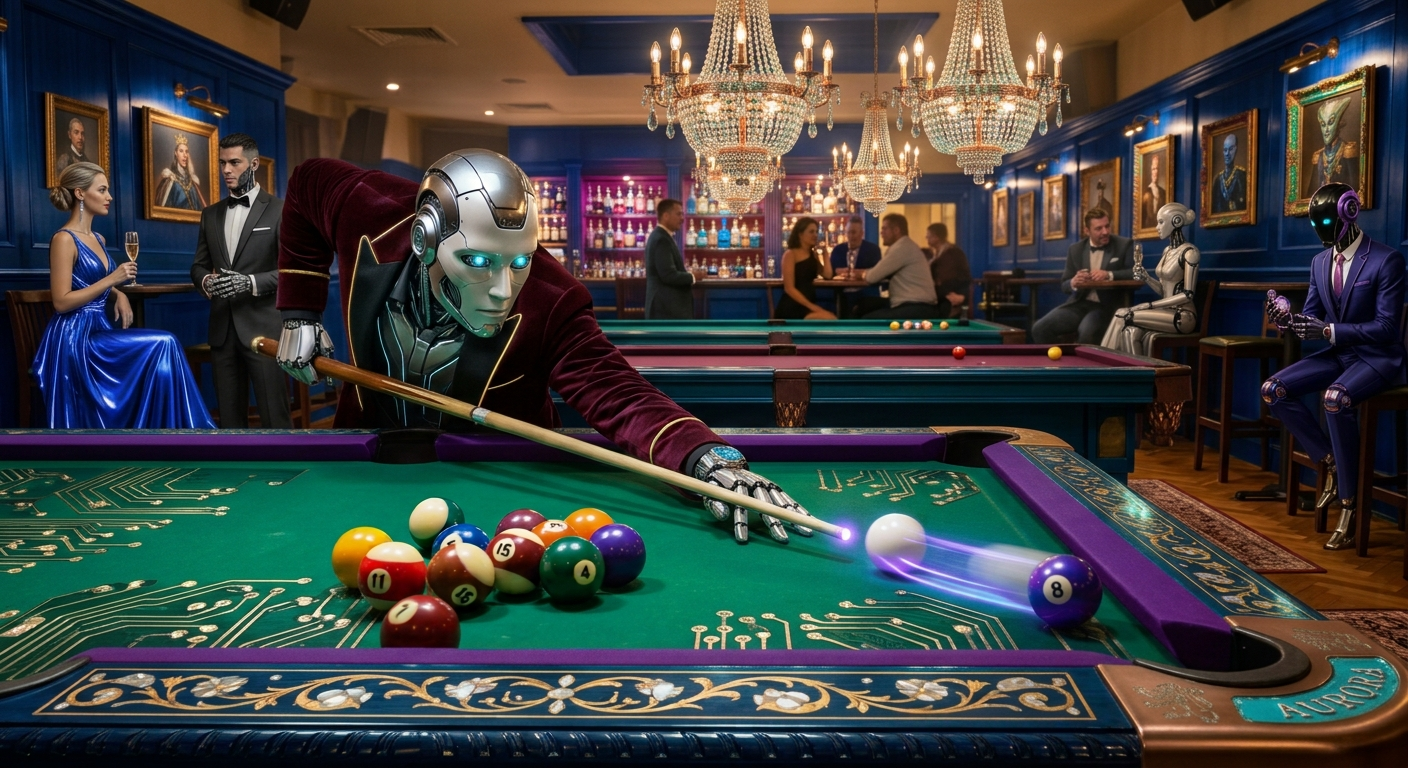
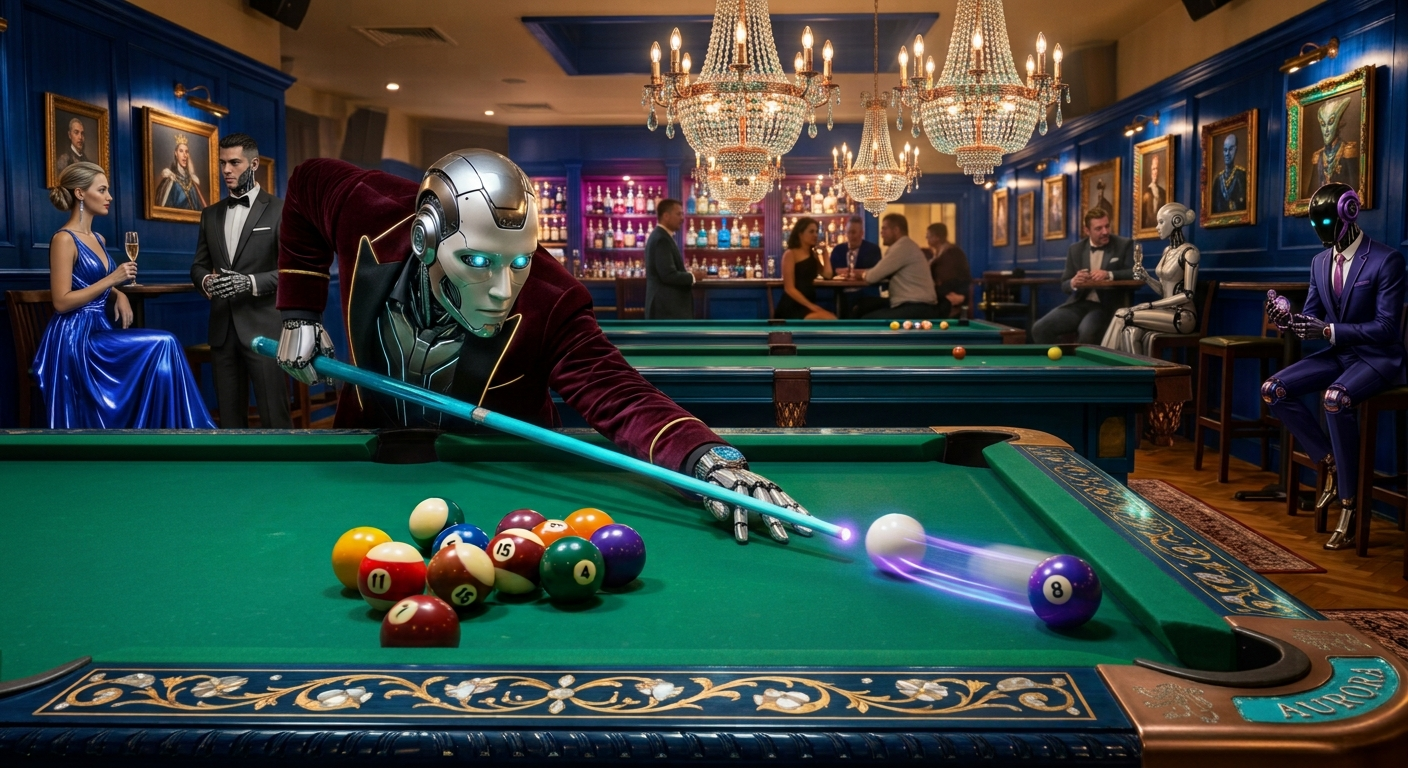
add bg options for the cities and the levels

Changed region(s): [[0.0, 0.4375, 0.875, 0.9062], [0.4375, 0.4375, 0.8125, 0.5], [0.5, 0.1875, 0.5312, 0.25]]

diff --git a/src/home.ts b/src/home.ts
@@ -177,6 +177,7 @@ export async function chooseGame() {
         return;
       }
       view = undefined;
+      delete picker.dataset.backgroundScreen;
       modes.hidden = false;
       setup.hidden = true;
       previousButton?.focus();
@@ -190,6 +191,7 @@ export async function chooseGame() {
     function showStages(city: typeof cities[number]) {
       selectedCity = city;
       view = 'stages';
+      picker.dataset.backgroundScreen = 'levels';
       shop.hidden = false;
       back.textContent = t('← Cities');
       title.textContent = t(city.name) + ' · ' + gameName();
@@ -215,6 +217,7 @@ export async function chooseGame() {
 
     function showShop(focusIndex = -1) {
       view = 'shop';
+      picker.dataset.backgroundScreen = 'other';
       shop.hidden = true;
       back.textContent = selectedCity ? t('← Games') : t('← Cities');
       title.textContent = t('Equipment shop');
@@ -242,6 +245,7 @@ export async function chooseGame() {
 
     function showTraining() {
       view = 'training';
+      picker.dataset.backgroundScreen = 'other';
       back.textContent = t('← Game modes');
       title.textContent = t('Training') + ' · ' + gameName();
       list.dataset.layout = 'training';
@@ -250,6 +254,7 @@ export async function chooseGame() {
         artwork: tableArt(5), action: t('Choose difficulty'),
         play: () => {
           view = 'difficulty';
+          picker.dataset.backgroundScreen = 'levels';
           back.textContent = t('← Training');
           title.textContent = t('Choose your opponent');
           list.dataset.layout = 'difficulty';
@@ -271,6 +276,7 @@ export async function chooseGame() {
     async function showSetup(mode: Setup) {
       request?.abort();
       view = mode;
+      picker.dataset.backgroundScreen = mode === 'computer' || mode === 'online' ? 'cities' : 'other';
       selectedCity = undefined;
       shop.hidden = mode !== 'computer';
       modes.hidden = true;

diff --git a/index.html b/index.html
@@ -76,18 +76,23 @@
             <span class="background-name">Classic</span>
           </button>
         </div>
+        <fieldset>
+          <legend>Show background on</legend>
+          <label><input type="checkbox" data-background-screen="cities" checked> City selection</label>
+          <label><input type="checkbox" data-background-screen="levels" checked> Level selection</label>
+        </fieldset>
       </div>
       <div class="ui-dialog-actions"><button class="ui-button" value="close">Done</button></div>
     </form>
   </dialog>
   <section id="cityPicker" class="city-picker" aria-labelledby="cityPickerTitle">
+    <div class="background-art home-backdrop" data-background="sapphire" aria-hidden="true"></div>
     <div class="city-picker-content">
       <div class="home-header">
         <img class="city-picker-brand" src="/billiard-logo.svg" width="300" height="72" alt="Cue Master · Pool and Snooker">
         <button class="avatar-choice home-avatar" id="openAppSettings" type="button" aria-label="Settings" title="Settings" aria-haspopup="dialog" aria-controls="appSettings"></button>
       </div>
       <div id="homeModes">
-        <div class="background-art home-backdrop" data-background="sapphire" aria-hidden="true"></div>
         <h1 id="cityPickerTitle">Choose your game</h1>
         <div class="home-games" role="group" aria-label="Game type">
           <button class="home-back" type="button" data-game="pool" aria-pressed="true">Billiard</button>

diff --git a/src/app-settings.ts b/src/app-settings.ts
@@ -97,6 +97,7 @@ function installHomeBackground(settings: HTMLDialogElement) {
   const open = document.querySelector<HTMLButtonElement>('#openHomeBackground')!;
   const currentName = document.querySelector<HTMLElement>('#currentHomeBackground')!;
   const backdrop = document.querySelector<HTMLElement>('.home-backdrop')!;
+  const screenOptions = dialog.querySelectorAll<HTMLInputElement>('[data-background-screen]');
   const choices = [...dialog.querySelectorAll<HTMLButtonElement>('[data-background-choice]')];
   let selected = choices[0];
 
@@ -121,6 +122,21 @@ function installHomeBackground(settings: HTMLDialogElement) {
     choice.onclick = () => {
       apply(choice);
       try { localStorage.setItem(backgroundKey, backdrop.dataset.background!); } catch {}
+    };
+  }
+  for (const option of screenOptions) {
+    const screen = option.dataset.backgroundScreen!;
+    const key = backgroundKey + '-' + screen;
+    const attribute = 'data-hide-background-' + screen;
+    const updateScreen = () => {
+      if (option.checked) backdrop.removeAttribute(attribute);
+      else backdrop.setAttribute(attribute, '');
+    };
+    try { option.checked = localStorage.getItem(key) !== 'off'; } catch {}
+    updateScreen();
+    option.onchange = () => {
+      updateScreen();
+      try { localStorage.setItem(key, option.checked ? 'on' : 'off'); } catch {}
     };
   }
   open.onclick = () => {

diff --git a/src/city-picker.css b/src/city-picker.css
@@ -78,8 +78,20 @@
 .home-backdrop[data-background="golden"] {
   --background-overlay: linear-gradient(180deg, #080f20a8, #080f204d 53%, #080f20b3);
 }
-.home-backdrop[data-background="classic"] { display: none; }
-.home-backdrop:not([data-background="classic"]) ~ h1 {
+.city-picker:is([data-background-screen="cities"], [data-background-screen="levels"]) .home-backdrop::before {
+  content: "";
+  position: absolute;
+  inset: 0;
+  z-index: 1;
+  background: linear-gradient(180deg, #080f2066, #080f2040 55%, #080f2066);
+}
+.home-backdrop[data-background="classic"],
+.city-picker[data-background-screen="other"] .home-backdrop,
+.city-picker[data-background-screen="cities"] .home-backdrop[data-hide-background-cities],
+.city-picker[data-background-screen="levels"] .home-backdrop[data-hide-background-levels] { display: none; }
+.city-picker:not([data-background-screen]) .home-backdrop:not([data-background="classic"]) ~ .city-picker-content h1,
+.city-picker[data-background-screen="cities"] .home-backdrop:not([data-background="classic"]):not([data-hide-background-cities]) ~ .city-picker-content :is(#setupTitle, #setupStatus),
+.city-picker[data-background-screen="levels"] .home-backdrop:not([data-background="classic"]):not([data-hide-background-levels]) ~ .city-picker-content :is(#setupTitle, #setupStatus) {
   color: #f3f7ff;
   text-shadow: 0 2px 12px #080f20;
 }
